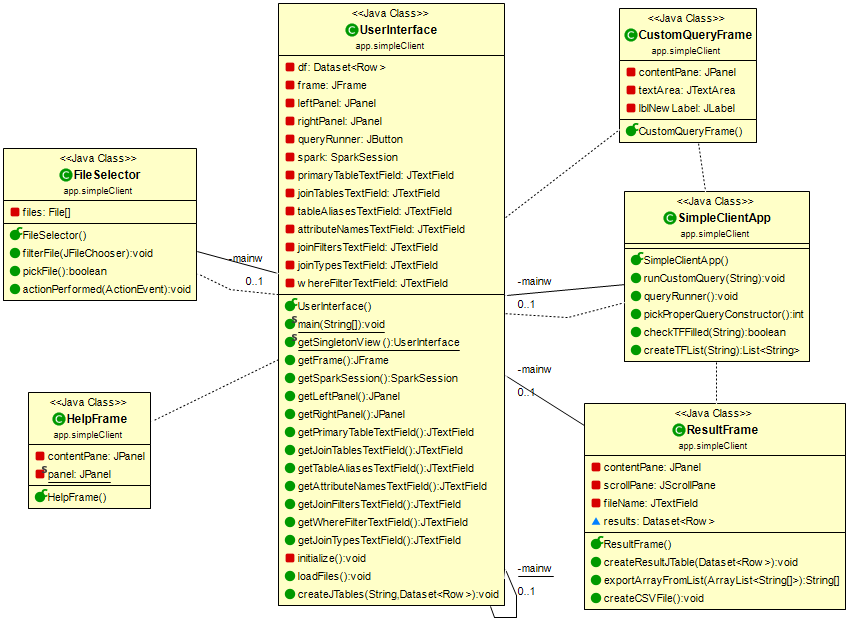
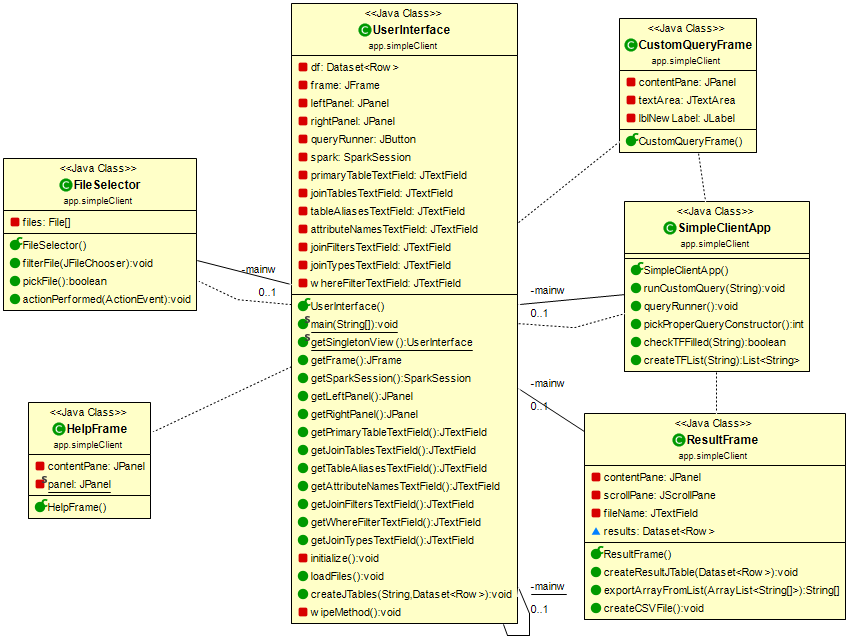
Added a wipe method to help with the experiments.

diff --git a/src/main/java/app/simpleClient/UserInterface.java b/src/main/java/app/simpleClient/UserInterface.java
@@ -1,6 +1,7 @@
 package app.simpleClient;
 
 import java.awt.BorderLayout;
+import java.awt.Component;
 import java.awt.Dimension;
 import java.awt.EventQueue;
 import java.awt.event.ActionEvent;
@@ -171,10 +172,14 @@ public class UserInterface {
 		frame.setJMenuBar(menuBar);
 		
 		JButton openItem = new JButton("Add Files");
-		openItem.addActionListener(new ActionListener() { 
+		openItem.addActionListener(new ActionListener() {
 		    public void actionPerformed(ActionEvent e) {
+		    	long start = System.currentTimeMillis();
 		    	FileSelector selector = new FileSelector();
 				selector.actionPerformed(e);
+				long end = System.currentTimeMillis();
+				float sec = (end - start) / 1000F; System.out.println(sec + " seconds");
+				System.out.println(sec);
 		    }
 		});
 		menuBar.add(openItem);
@@ -187,6 +192,23 @@ public class UserInterface {
 		    }
 		});
 		menuBar.add(helpItem);
+		
+		JButton wipeItem = new JButton("Wipe Data");
+		wipeItem.addActionListener(new ActionListener() {
+		    public void actionPerformed(ActionEvent e) {
+		    	int confirmed = JOptionPane.showConfirmDialog(null,"Are you sure you want to wipe all the registered data", "Wipe Data Message",JOptionPane.YES_NO_OPTION);
+	        	if (confirmed == JOptionPane.YES_OPTION) {
+	        		try {
+						wipeMethod();
+					} catch (IOException e1) {
+						// TODO Auto-generated catch block
+						e1.printStackTrace();
+					}
+	        	}
+		    }
+		});
+		menuBar.add(wipeItem);
+		
 		
 		JSplitPane splitPane = new JSplitPane();
 		frame.getContentPane().add(splitPane, BorderLayout.CENTER);
@@ -281,7 +303,6 @@ public class UserInterface {
 		    		SimpleClientApp client = new SimpleClientApp();
 		    		client.queryRunner();
 				} catch (IOException e1) {
-					// TODO Auto-generated catch block
 					e1.printStackTrace();
 				}
 		    }
@@ -311,7 +332,6 @@ public class UserInterface {
 				createJTables(sf.getSfAlias(),df);
 			} catch (AnalysisException e) {
 				e.printStackTrace();
-				System.out.println("df exists already");
 			}
 		}
 	}
@@ -320,7 +340,7 @@ public class UserInterface {
 		ArrayList<String[]> dataOfFile = new ArrayList<String[]>();
 		String nameOfTable[] = {fileAlias,"Type"};
 		for(Tuple2<String, String> element : df.dtypes()) {
-			String[] s = {element._1,element._2.substring(0,element._2.length()-4)};
+			String[] s = {element._1, element._2.substring(0, element._2.length()-4)};
 			dataOfFile.add(s);
 		}
 		String tableData[][] = new String[dataOfFile.size()][];
@@ -337,10 +357,23 @@ public class UserInterface {
 		panel.add(sp);
 		mainw.getLeftPanel().add(panel);
 		SwingUtilities.updateComponentTreeUI(mainw.getFrame());
-		/*Component[] components = mainw.getLeftPanel().getComponents();
-
+	}
+	
+	private void wipeMethod() throws IOException {
+		SchemaManagerInterface schMan = new SchemaManagerFactory().createSchemaManager();
+		List<StructuredFile> fileList = schMan.getFileList();
+		for(StructuredFile sf: fileList) {
+			System.out.println(sf.getSfAlias());
+			spark.catalog().dropGlobalTempView(sf.getSfAlias());
+			spark.catalog().dropTempView(sf.getSfAlias());
+		}
+		schMan.wipeFileList();
+		schMan.wipeRepoFile();
+		SwingUtilities.updateComponentTreeUI(mainw.getFrame());
+		Component[] components = mainw.getLeftPanel().getComponents();
         for (Component component : components) {
-            System.out.println(component);
-        }*/
+        	mainw.getLeftPanel().remove(component);
+        }
+		SwingUtilities.updateComponentTreeUI(mainw.getFrame());
 	}
 }
